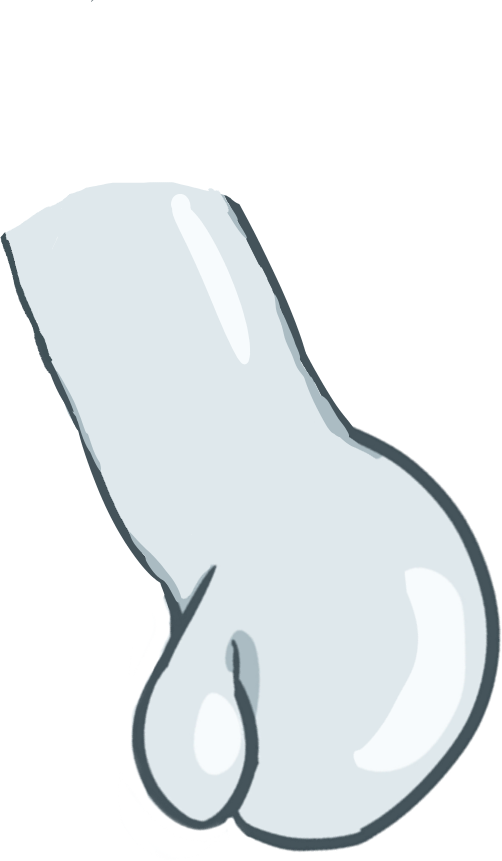
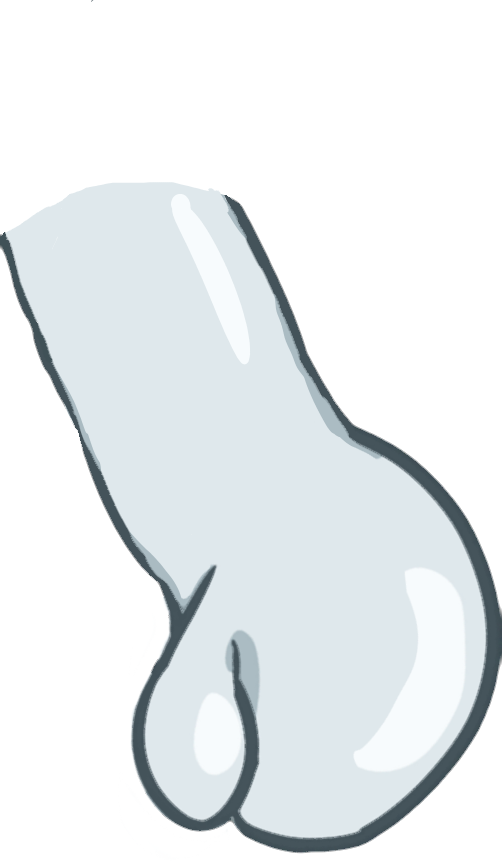
線ふとのフロリ・新オープニング・数字のふりがな

diff --git a/src/furigana.js b/src/furigana.js
@@ -16,6 +16,7 @@ const HOST_CLASS = "rb";
 
 const KANJI = /[一-鿿々〆]/;
 const KATAKANA_ANY = /[ァ-ヶ]/;
+const DIGIT_COUNTER_HINT = /[0-9][ぁ-んァ-ヶ一-鿿A-Za-z%]/;
 const gradeOf = new Map();
 KYOIKU_BY_GRADE.forEach((chars, i) => [...chars].forEach((c) => gradeOf.set(c, i + 1)));
 
@@ -116,9 +117,94 @@ function counterSegs(digits, counter, following = "") {
   return null;
 }
 
-// text の i 番目から、辞書か数え方に当てはまる部分を探す。
-function matchAt(text, i) {
+// ---- 数字+数え方の ふりがな(「ふりがな:全部」のときだけ。問題・選択肢・ヒント・解説の文字に限る)----
+// 「3本」全体に「さんぼん」と、ルビをつける(読みの規則は、docs/number-readings.xlsx)。数え方のつかない数(式・番号)には、つけない。
+const DIG = ["", "いち", "に", "さん", "よん", "ご", "ろく", "なな", "はち", "きゅう"];
+function below10000(n) {
+  const th = Math.floor(n / 1000), h = Math.floor((n % 1000) / 100), t = Math.floor((n % 100) / 10), o = n % 10;
+  let s = "";
+  if (th) s += th === 1 ? "せん" : th === 3 ? "さんぜん" : th === 8 ? "はっせん" : `${DIG[th]}せん`;
+  if (h) s += h === 1 ? "ひゃく" : h === 3 ? "さんびゃく" : h === 6 ? "ろっぴゃく" : h === 8 ? "はっぴゃく" : `${DIG[h]}ひゃく`;
+  if (t) s += `${t === 1 ? "" : DIG[t]}じゅう`;
+  if (o) s += DIG[o];
+  return s;
+}
+function bigNumberKana(n) {
+  if (n === 0) return "ぜろ";
+  const man = Math.floor(n / 10000);
+  return (man ? `${below10000(man)}まん` : "") + below10000(n % 10000);
+}
+const swapEnd = (s, from, to) => (s.endsWith(from) ? s.slice(0, -from.length) + to : s);
+// 小さい「っ」:いち→いっ、ろく→ろっ、はち→はっ、じゅう→じゅっ、ひゃく→ひゃっ
+const shorten = (s) => [["いち", "いっ"], ["ろく", "ろっ"], ["はち", "はっ"], ["じゅう", "じゅっ"], ["ひゃく", "ひゃっ"], ["びゃく", "びゃっ"], ["ぴゃく", "ぴゃっ"]].reduce((r, [a, b]) => swapEnd(r, a, b), s);
+
+const SPECIAL_DAY_KANA = { 2: "ふつか", 3: "みっか", 4: "よっか", 5: "いつか", 6: "むいか", 7: "なのか", 8: "ようか", 9: "ここのか", 10: "とおか", 14: "じゅうよっか", 20: "はつか", 24: "にじゅうよっか" };
+const TSU_KANA = ["", "ひとつ", "ふたつ", "みっつ", "よっつ", "いつつ", "むっつ", "ななつ", "やっつ", "ここのつ", "とお"];
+// 数え方ごとの、[数の読み, 数え方の読み](n = 数。base = 数のふつうの読み。last = 1の位)。2つをつなげたものが、全体の読み。
+const kai = (cnt, six = true) => (n, base) => ((n % 1000 && [1, 8, 0].includes(n % 10)) || (six && n % 10 === 6 && n % 1000) ? [shorten(base), cnt] : [base, cnt]);
+const sound = (cnts) => (n, base) => {   // ほん・ぽん・ぼん
+  if (n === 0) return [base, cnts[0]];
+  if (n % 1000 === 0) return [base, cnts[2]];
+  if ([1, 6, 8, 0].includes(n % 10)) return [shorten(base), cnts[1]];
+  return n % 10 === 3 ? [base, cnts[2]] : [base, cnts[0]];
+};
+const plainCnt = (cnt) => (n, base) => [base, cnt];
+const DIGIT_COUNTERS = {
+  本: sound(["ほん", "ぽん", "ぼん"]), 匹: sound(["ひき", "ぴき", "びき"]),
+  分: (n, base, o) => {
+    if (o.fraction) return [base, "ぶん"];
+    if (n % 1000 === 0 && n) return [base, "ぷん"];
+    if ([1, 6, 8, 0].includes(n % 10) && n) return [shorten(base), "ぷん"];
+    return [base, [3, 4].includes(n % 10) ? "ぷん" : "ふん"];
+  },
+  回: kai("かい"), 個: kai("こ"), こ: kai("こ"), 県: kai("けん"), 点: kai("てん", false), 滴: kai("てき", false), 等星: kai("とうせい", false),
+  人: (n, base) => (n === 1 ? ["", "ひとり"] : n === 2 ? ["", "ふたり"] : [swapEnd(base, "よん", "よ"), "にん"]),
+  日: (n, base, o) => {
+    if (n === 1) return ["", o.span ? "いちにち" : "ついたち"];
+    if (SPECIAL_DAY_KANA[n]) return ["", SPECIAL_DAY_KANA[n]];
+    return [swapEnd(swapEnd(base, "なな", "しち"), "きゅう", "く"), "にち"];
+  },
+  日間: (n, base) => { const [a, b] = DIGIT_COUNTERS.日(n, base, { span: true }); return [a, `${b}かん`]; },
+  年間: (n, base) => { const [a, b] = DIGIT_COUNTERS.年(n, base); return [a, `${b}かん`]; },
+  月: (n, base) => [n === 4 ? "し" : n === 7 ? "しち" : n === 9 ? "く" : base, "がつ"],
+  時: (n, base) => [swapEnd(swapEnd(swapEnd(base, "よん", "よ"), "なな", "しち"), "きゅう", "く"), "じ"],
+  時間: (n, base) => [swapEnd(swapEnd(base, "よん", "よ"), "きゅう", "く"), "じかん"],
+  年: (n, base) => [swapEnd(swapEnd(swapEnd(base, "よん", "よ"), "なな", "しち"), "きゅう", "く"), "ねん"],
+  円: (n, base) => [swapEnd(base, "よん", "よ"), "えん"],
+  通り: (n, base) => (n === 1 ? ["", "ひととおり"] : n === 2 ? ["", "ふたとおり"] : [base, "とおり"]),
+  つ: (n, base) => (TSU_KANA[n] ? ["", TSU_KANA[n]] : [base, "つ"]),
+  枚: plainCnt("まい"), 秒: plainCnt("びょう"), 度: plainCnt("ど"), 番: plainCnt("ばん"), 倍: plainCnt("ばい"), 問: plainCnt("もん"),
+  組: plainCnt("くみ"), 列: plainCnt("れつ"), 桁: plainCnt("けた"), 割: plainCnt("わり"), 文字: plainCnt("もじ"), 往復: plainCnt("おうふく"),
+  名園: plainCnt("めいえん"), 大義務: plainCnt("だいぎむ"),
+  平方キロメートル: plainCnt("へいほうきろめえとる"), km: plainCnt("きろめえとる"), cm: plainCnt("せんちめえとる"), mm: plainCnt("みりめえとる"),
+  kg: plainCnt("きろぐらむ"), m: plainCnt("めえとる"), L: plainCnt("りっとる"), g: plainCnt("ぐらむ"), "%": plainCnt("ぱあせんと"),
+};
+const COUNTER_WORDS = Object.keys(DIGIT_COUNTERS).sort((a, b) => b.length - a.length);
+const DEFER_TO_DICT = new Set(["円", "番", "回", "個", "枚", "度", "倍", "秒", "組", "列", "点", "問"]);   // 「円玉」「番目」のように、辞書の語が続くときは、数の読みだけ つける
+const LETTER_COUNTERS = new Set(["km", "cm", "mm", "kg", "m", "L", "g"]);
+
+function digitMatch(text, i, digits) {
+  if (/[0-9.,]/.test(text[i - 1] ?? "")) return null;   // 小数・位どりの数の途中
+  const after = i + digits.length;
+  const rest = text.slice(after);
+  const word = COUNTER_WORDS.find((w) => rest.startsWith(w));
+  if (!word || (LETTER_COUNTERS.has(word) && /^[A-Za-z]/.test(rest.slice(word.length)))) return null;
+  const zeroPadded = digits.length > 1 && digits[0] === "0";
+  const n = Number(digits);
+  const base = zeroPadded ? [...digits].map((d) => (d === "0" ? "ぜろ" : DIG[d])).join("") : bigNumberKana(n);
+  const following = rest.slice(word.length);
+  const opts = { fraction: word === "分" && isFraction(following), span: word === "日" && /^(のうち|中|で|間|ごと|あたり)/.test(following) };
+  let [num, cnt] = DIGIT_COUNTERS[word](zeroPadded ? 9 : n, base, opts);
+  if (zeroPadded) [num, cnt] = [base, word === "分" ? "ふん" : DIGIT_COUNTERS[word](9, base, opts)[1]];
+  const next = longestMatch(text, after);
+  if (DEFER_TO_DICT.has(word) && next && next.length > 1) return { length: digits.length, segs: [[digits, num]] };
+  return { length: digits.length + word.length, segs: [[digits + word, num + cnt]] };
+}
+
+// text の i 番目から、辞書か数え方に当てはまる部分を探す。digitMode = 数字+数え方にも、ふりがなをつける
+function matchAt(text, i, digitMode = false) {
   const digits = /^[0-9]+/.exec(text.slice(i));
+  if (digits && digitMode) return digitMatch(text, i, digits[0]);
   if (digits) {
     const after = i + digits[0].length;
     const counter = text[after];
@@ -142,7 +228,7 @@ function escapeHtml(text) {
 }
 
 // 文字を、[{ text, reading }] に分ける(読みは、ルビをつける部分だけ)。確認用にも使う。
-export function segments(text) {
+export function segments(text, digitMode = false) {
   const out = [];
   const push = (t, reading) => {
     const last = out[out.length - 1];
@@ -151,7 +237,7 @@ export function segments(text) {
   };
   let i = 0;
   while (i < text.length) {
-    const found = matchAt(text, i);
+    const found = matchAt(text, i, digitMode);
     if (found) {
       for (const [t, reading] of found.segs) push(t, reading);
       i += found.length;
@@ -252,7 +338,7 @@ function withKatakanaRuby(plain) {
 
 export function rubyHtml(text, mode, kana = false) {
   if (mode === "none") return escapeHtml(text);
-  return segments(text)
+  return segments(text, kana && mode === "all")
     .map(({ text: t, reading }) => {
       const show = reading && (mode === "all" || hasUpperKanji(t, FROM_GRADE[mode]));
       if (show) return `<ruby>${escapeHtml(t)}<rp>(</rp><rt>${reading}</rt><rp>)</rp></ruby>`;
@@ -298,7 +384,7 @@ function hostify(node) {
   if (!parent || SKIP_TAGS.has(parent.tagName) || parent.closest(`.${HOST_CLASS}, [data-no-ruby]`)) return;
   // 問題・選択肢・ヒント・解説(data-kana の中)は、カタカナにも ふりがなをつけられるように、カタカナだけの文字も包む
   const kana = Boolean(parent.closest("[data-kana]"));
-  if (!KANJI.test(node.nodeValue) && !(kana && KATAKANA_ANY.test(node.nodeValue))) return;
+  if (!KANJI.test(node.nodeValue) && !(kana && (KATAKANA_ANY.test(node.nodeValue) || DIGIT_COUNTER_HINT.test(node.nodeValue)))) return;
   const host = document.createElement("span");
   host.className = HOST_CLASS;
   host.dataset.plain = node.nodeValue;

diff --git a/src/index.html b/src/index.html
@@ -12,7 +12,7 @@
 <body>
   <div id="badge-bg" class="badge-bg" aria-hidden="true"></div>
   <div id="opening" class="overlay opening" role="button" tabindex="0" aria-label="画面をマウスでクリックして スタート">
-    <div class="confetti" aria-hidden="true"><span>⭐</span><span>✨</span><span>🎈</span><span>🌸</span><span>💡</span><span>⭐</span><span>🎈</span><span>✨</span><span>🌸</span><span>💡</span></div>
+    <div class="confetti" aria-hidden="true"><span>💖</span><span>🌸</span><span>🦋</span><span>🎈</span><span>🎵</span><span>🍀</span><span>💖</span><span>🌸</span><span>🎈</span><span>🦋</span></div>
     <img class="logo" src="../assets/flori/src/logo.png" alt="フロリ">
     <p class="opening-title" aria-label="ひらめきクイズ"><span style="--i:0">ひ</span><span style="--i:1">ら</span><span style="--i:2">め</span><span style="--i:3">き</span><span style="--i:4">ク</span><span style="--i:5">イ</span><span style="--i:6">ズ</span></p>
     <p class="opening-hint">画面をタッチして スタート!</p>

diff --git a/src/style.css b/src/style.css
@@ -3619,3 +3619,11 @@ html[data-pattern] :is(#screen-menu, #screen-note, #screen-credits, #screen-dex,
 #screen-dress #dress-reward .reward-title { display: none; }
 #screen-dress #dress-reward .reward-icon { display: none; }
 #screen-dress #dress-reward .reward-note { font-size: 11px; font-weight: bold; }
+
+/* 新オープニング:ロゴがぽんと出て、「ひらめきクイズ」の文字が1文字ずつ ぽんぽんと出てから、はねる */
+.opening .logo { animation: op-pop 0.7s cubic-bezier(0.34, 1.56, 0.64, 1) 0.15s both; }
+.opening-title span {
+  animation: op-pop 0.5s cubic-bezier(0.34, 1.56, 0.64, 1) calc(0.7s + var(--i) * 0.08s) both, letter-bounce 1.2s ease-in-out calc(1.9s + var(--i) * 0.1s) infinite;
+}
+@keyframes op-pop { from { transform: scale(0.1); opacity: 0; } to { transform: scale(1); opacity: 1; } }
+@media (prefers-reduced-motion: reduce) { .opening .logo, .opening-title span { animation: none; } }

diff --git a/tools/thick_tex.py b/tools/thick_tex.py
@@ -1,0 +1,60 @@
+import sys, os, shutil
+import numpy as np
+from PIL import Image
+from scipy import ndimage as ndi
+
+root = sys.argv[1]
+src = root + "/src/live2d"
+dst = src + "/_thick"
+os.makedirs(dst + "/tex", exist_ok=True)
+shutil.copy(src + "/model.json", dst + "/model.json")
+S = 3.1  # 絵(テクスチャ)の拡大: 平らな絵(幅800)に対して、約3.1倍
+
+BODY = [31, 34, 35, 36, 32, 33, 48, 49]   # 顔・体・足・腕
+FACE = [19, 22, 20, 21, 23, 24, 25, 26]   # 白目・まぶた・眉
+MOUTH = [27, 28]                           # 口:さわらない
+
+
+def thicken(path, small):
+    im = Image.open(path).convert("RGBA")
+    a = np.array(im).astype(float)
+    lum = a[..., :3].mean(axis=2)
+    opaque = a[..., 3] > 40
+    dark = opaque & (lum < 152)
+    if not small:
+        er = max(1, int(5 * S))
+        visor = ndi.binary_dilation(ndi.binary_erosion(dark, iterations=er), iterations=int(6 * S)) & dark
+        zone = ndi.binary_dilation(visor, iterations=int(5 * S))
+    else:
+        zone = np.zeros(dark.shape, bool)
+    cand = opaque & (lum < 150) & ~zone
+    lab, n = ndi.label(cand, structure=np.ones((3, 3)))
+    if n == 0:
+        return im
+    sizes = ndi.sum(cand, lab, index=np.arange(1, n + 1))
+    keep = np.zeros(n + 1, bool)
+    keep[1:] = sizes >= (40 if small else 120 * S * S / 4)
+    lines = keep[lab]
+    sig = 1.1 * S * (0.7 if small else 1.0)
+    soft = ndi.gaussian_filter(lines.astype(float), sigma=sig)
+    al = np.maximum(np.clip((soft - 0.30) / 0.25, 0, 1), lines.astype(float))
+    # 新しく線になるところの色 = いちばん近い、もとの線の色
+    _, (iy, ix) = ndi.distance_transform_edt(~lines, return_indices=True)
+    near = a[iy, ix, :3]
+    out = a.copy()
+    for c in range(3):
+        out[..., c] = np.where(al > 0, a[..., c] * (1 - al) + near[..., c] * al, a[..., c])
+    out[..., 3] = np.maximum(a[..., 3], al * 255)
+    return Image.fromarray(np.clip(out, 0, 255).astype(np.uint8), "RGBA")
+
+
+for f in sorted(os.listdir(src + "/tex")):
+    n = int(f.split("_")[1].split(".")[0])
+    p = src + "/tex/" + f
+    if n in BODY:
+        thicken(p, False).save(dst + "/tex/" + f)
+    elif n in FACE:
+        thicken(p, True).save(dst + "/tex/" + f)
+    else:
+        shutil.copy(p, dst + "/tex/" + f)
+    print(f, "ok")

diff --git a/docs/decisions.md b/docs/decisions.md
@@ -1182,3 +1182,8 @@ scheme.md の「未定の事項」を決めたらここに追記する。
 ## その97(2026-11-10)公開を更新
 - ふろりのジャンプを高く(`HOP_H` 45→85)。ふろりが動いても、足もとの影は動かさない(`live-flori.js` の `shadow` が、からだの上への動き分を打ち消す)。
 - 手元の変更をまとめて公開(モード選択の2段化・確認画面の廃止・進捗バー・ごほうびカード・口の横はば・数字ふりがな以外ぜんぶ)。オープニング仮映像・線ふと版・数字ふりがなは、アプリに入っていない。
+
+## その98(2026-11-10)入れなかったものを、アプリに入れて公開
+- 線ふとのフロリ:動くフロリのテクスチャ(顔・体・足・腕・眉・目)の線を太くした絵に差しかえた(口は、そのまま)。作りかたは `tools/thick_tex.py`(もとの絵は、git の履歴に残っている)。**静止画(assets/flori/ の png・webp)は、まだ、もとの線のまま**。
+- 新オープニング:落ちてくる飾りを、キラキラ(⭐✨💡)から、かわいい絵(ハート・桜・ちょうちょ・風船・音符・クローバー)に。ロゴがぽんと出て、「ひらめきクイズ」が1文字ずつ ぽんと出てから、はねる。スタート表示・ごほうびダイアログの飾りは、そのまま(キラキラ)。
+- 数字のふりがな(`furigana.js` の `digitMatch`):「ふりがな:全部」のとき、問題・選択肢・ヒント・解説(data-kana の中)の「数字+数え方」全体にルビ(3本=さんぼん)。読みの規則は docs/number-readings.xlsx のとおり。数え方のつかない数(式・番号)には、**つけない**。利用者の確認(表の「確認」の列)は、まだ返ってきていないので、案のまま入れた。「1日」は、ついたち。ただし「1日のうち・1日で・1日中・1日間」は、いちにち。

diff --git a/docs/handoff.md b/docs/handoff.md
@@ -63,7 +63,7 @@
 - 図鑑の「ひらめき」タブが 320 幅で右端にぎりぎり。
 
 ## 現在の状態
-- 公開ずみ:2026-11-10(手元の変更ぜんぶ:モード選択の2段化・確認画面の廃止・進捗バー・着せ替えのごほうび・ふろりのジャンプを高く[HOP_H 85]・影を動かさない・口の横はば0.85倍[LIP_WIDTH]など)。オープニング仮映像・線ふと版は、映像だけで、アプリには入っていない。
+- 公開ずみ:2026-11-10(その98まで。手元の変更ぜんぶ:モード選択の2段化・確認画面の廃止・進捗バー・着せ替えのごほうび・ふろりのジャンプを高く[HOP_H 85]・影を動かさない・口の横はば0.85倍[LIP_WIDTH]など)。オープニング仮映像・線ふと版は、映像だけで、アプリには入っていない。
 - 項目ごとにセッションを分けて進める。作業が終わったら、決めたことを decisions.md に、状態が変わったらこのファイルの「既知の残り」「現在の状態」を更新する。
 - 着せ替えの色・背景: お試し(TRIAL)も、正式なご褒美になった(badges.js の TRIAL_SETS で、色と背景のセットごとに条件)。一覧は、ジャンルの見出し付き(SET_ORDER)。着せたとき、名前が枠の上を流れる(main.js の flowName)。
 - 着せ替えの条件・レア度は、`src/dress-unlocks.js`(`UNLOCKS`・`RARITY`・移行用の`OLD_UNLOCKS`)。レア度の名前は badges.js の `RARITY_NAMES`(ノーマル・レア・スーパーレア・レジェンド)。条件を変えたら、`OLD_UNLOCKS` ではなく `UNLOCKS` を直す。RPGの条件は、storage.js の `recordRpg` で数える。
